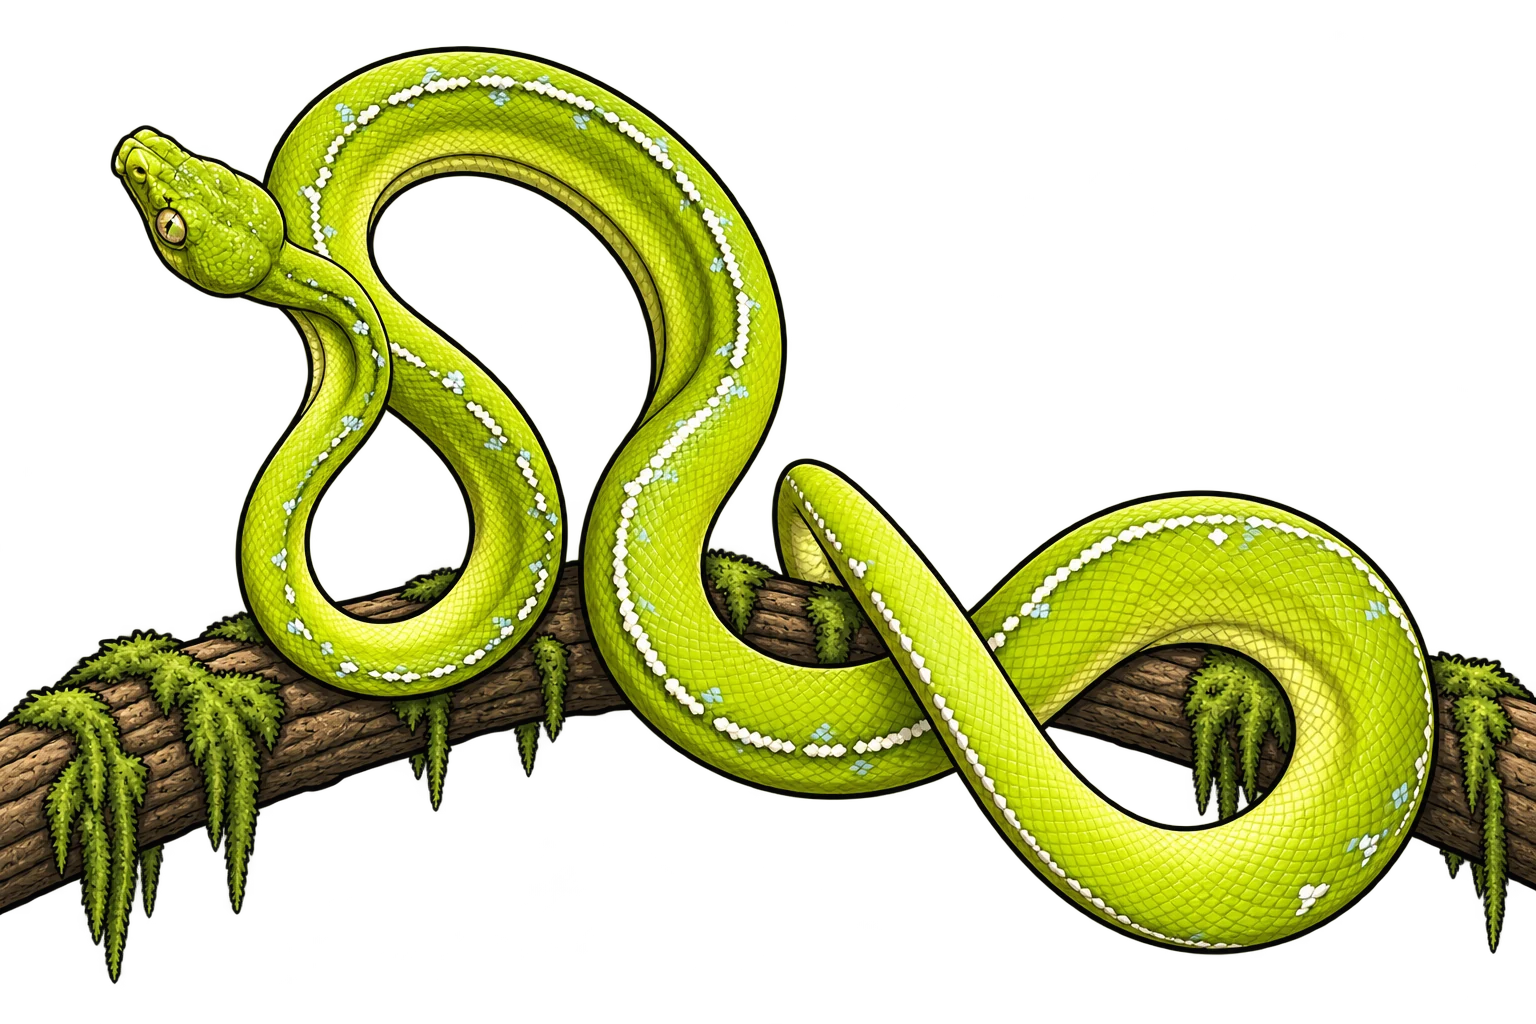
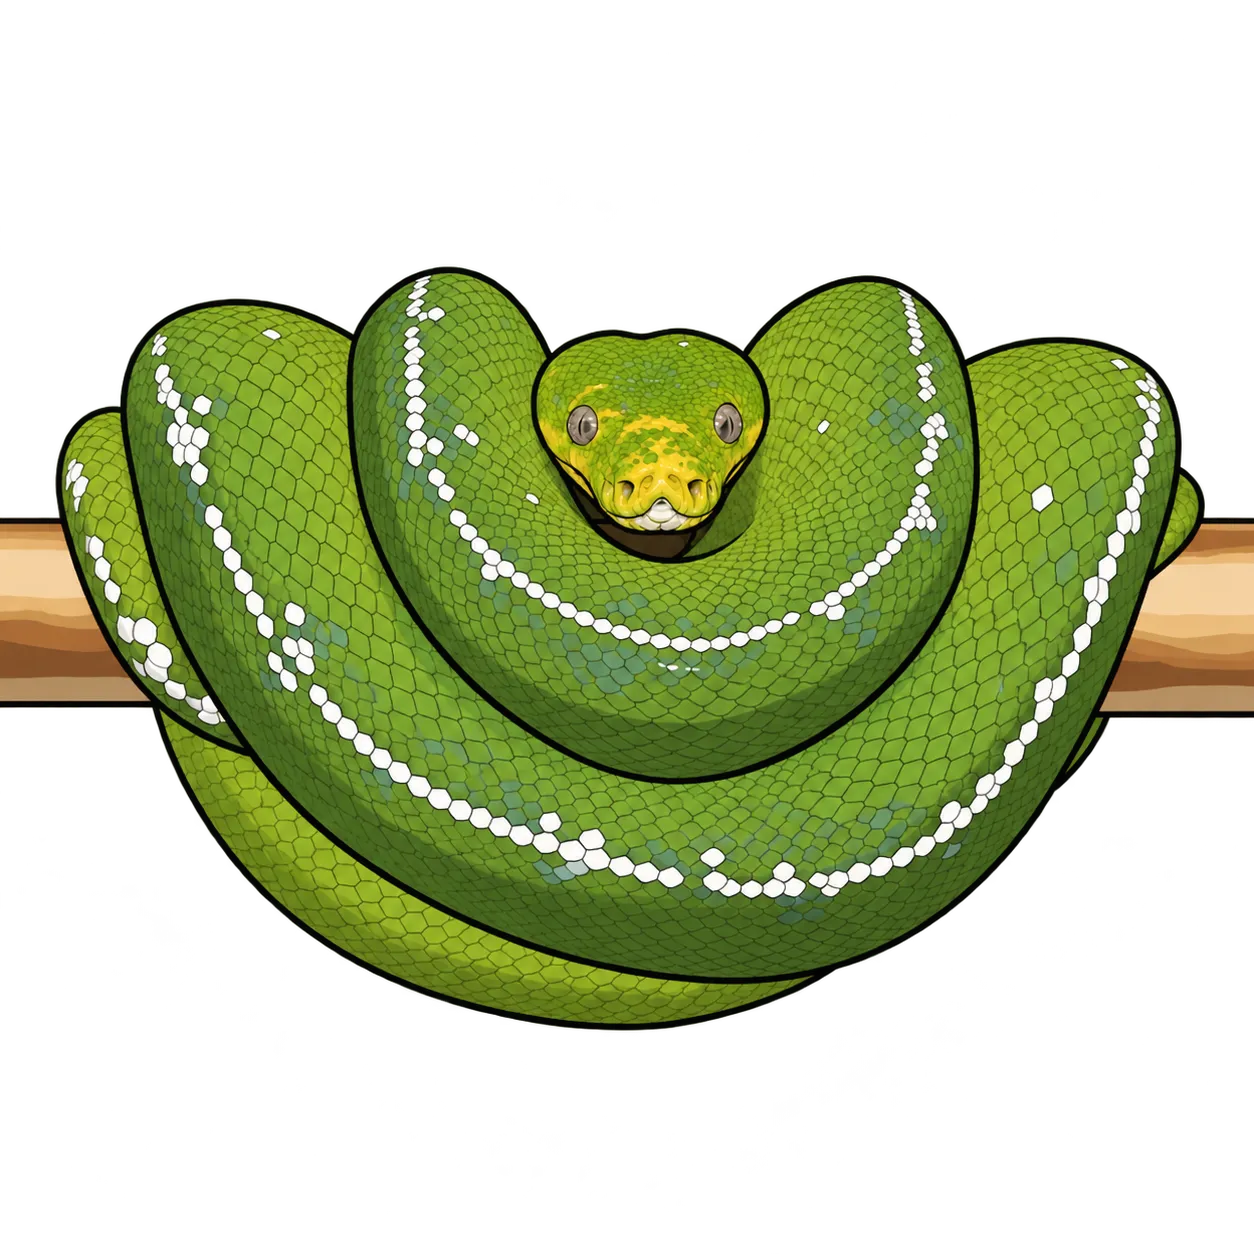
Wire 13 finished Drive sprites into the Keeper registry (09-30 pack + Batanta alt); replace bad-bg Merauke adult

diff --git a/src/lib/chondro-sprite-registry.ts b/src/lib/chondro-sprite-registry.ts
@@ -55,8 +55,14 @@ const localitySprites: Record<string, StageSpriteSet> = {
       Yellow: [variant("/hatchery/snakes/localities/lereh/yellow-neonate.webp")],
     },
     adult: {
-      Red: [variant("/hatchery/snakes/localities/lereh/red-adult.webp")],
-      Yellow: [variant("/hatchery/snakes/localities/lereh/yellow-adult.webp")],
+      Red: [
+        variant("/hatchery/snakes/localities/lereh/red-adult.webp"),
+        variant("/hatchery/snakes/localities/lereh/red-adult-2.webp"),
+      ],
+      Yellow: [
+        variant("/hatchery/snakes/localities/lereh/yellow-adult.webp"),
+        variant("/hatchery/snakes/localities/lereh/yellow-adult-2.webp"),
+      ],
     },
   },
   Wamena: {
@@ -88,6 +94,7 @@ const localitySprites: Record<string, StageSpriteSet> = {
         variant("/hatchery/snakes/localities/cyclops/red-adult-3.webp"),
         variant("/hatchery/snakes/localities/cyclops/red-adult-4.webp"),
         variant("/hatchery/snakes/localities/cyclops/red-adult-5.webp"),
+        variant("/hatchery/snakes/localities/cyclops/red-adult-6.webp"),
       ],
       Yellow: [
         variant("/hatchery/snakes/localities/cyclops/yellow-adult.webp"),
@@ -103,6 +110,7 @@ const localitySprites: Record<string, StageSpriteSet> = {
     adult: {
       Red: [
         variant("/hatchery/snakes/localities/manokwari/red-adult.webp", { maxPhenotypeScore: 84 }),
+        variant("/hatchery/snakes/localities/manokwari/red-adult-2.webp", { maxPhenotypeScore: 84 }),
         variant("/hatchery/snakes/special/manokwari-red-adult-a-plus.webp", { minPhenotypeScore: 85 }),
         variant("/hatchery/snakes/recovered-v7/manokwari/red-adult-a-plus-02.webp", { minPhenotypeScore: 85 }),
       ],
@@ -111,8 +119,10 @@ const localitySprites: Record<string, StageSpriteSet> = {
   },
   Arfak: {
     juvenile: {
-      // Same-subspecies (pulcher) placeholders until dedicated Arfak red-neonate art exists.
       Red: [
+        // Dedicated Arfak art (2026-09-30 pack); pulcher placeholders kept as fallbacks.
+        variant("/hatchery/snakes/localities/arfak/red-neonate.webp"),
+        // Same-subspecies (pulcher) placeholders until dedicated Arfak red-neonate art exists.
         variant("/hatchery/snakes/localities/manokwari/red-neonate.webp"),
         variant("/hatchery/snakes/localities/sorong/red-neonate.webp"),
         variant("/hatchery/snakes/localities/timika/red-neonate.webp"),
@@ -121,8 +131,10 @@ const localitySprites: Record<string, StageSpriteSet> = {
       Yellow: [variant("/hatchery/snakes/localities/manokwari/yellow-neonate.webp")],
     },
     adult: {
-      // Same-subspecies (pulcher) placeholders until dedicated Arfak adult art exists.
       Red: [
+        // Dedicated Arfak art (2026-09-30 pack); pulcher placeholders kept as fallbacks.
+        variant("/hatchery/snakes/localities/arfak/red-adult.webp"),
+        // Same-subspecies (pulcher) placeholders until dedicated Arfak adult art exists.
         variant("/hatchery/snakes/localities/manokwari/red-adult.webp"),
         variant("/hatchery/snakes/localities/sorong/red-adult.webp"),
         variant("/hatchery/snakes/localities/timika/red-adult.webp"),
@@ -193,12 +205,14 @@ const localitySprites: Record<string, StageSpriteSet> = {
       Yellow: [
         variant("/hatchery/snakes/localities/jayapura/yellow-neonate.webp"),
         variant("/hatchery/snakes/localities/jayapura/yellow-neonate-2.webp"),
+        variant("/hatchery/snakes/localities/jayapura/yellow-neonate-3.webp"),
       ],
     },
     adult: {
       Red: [
         variant("/hatchery/snakes/localities/jayapura/red-adult.webp"),
         variant("/hatchery/snakes/localities/jayapura/red-adult-2.webp"),
+        variant("/hatchery/snakes/localities/jayapura/red-adult-3.webp"),
         variant("/hatchery/snakes/localities/jayapura/red-adult-a-plus.webp", { minPhenotypeScore: 85 }),
       ],
       Yellow: [
@@ -240,12 +254,18 @@ const localitySprites: Record<string, StageSpriteSet> = {
   },
   Biak: {
     juvenile: {
-      Red: [variant("/hatchery/snakes/recovered-v6/biak/red-neonate.webp")],
+      Red: [
+        variant("/hatchery/snakes/recovered-v6/biak/red-neonate.webp"),
+        variant("/hatchery/snakes/localities/biak/red-neonate.webp"),
+      ],
       Yellow: [variant("/hatchery/snakes/recovered-v6/biak/yellow-neonate.webp")],
     },
     adult: {
       Red: [variant("/hatchery/snakes/recovered-v6/biak/red-adult.webp")],
-      Yellow: [variant("/hatchery/snakes/recovered-v6/biak/yellow-adult.webp")],
+      Yellow: [
+        variant("/hatchery/snakes/recovered-v6/biak/yellow-adult.webp"),
+        variant("/hatchery/snakes/localities/biak/yellow-adult.webp"),
+      ],
     },
   },
   Numfor: {
@@ -268,20 +288,28 @@ const localitySprites: Record<string, StageSpriteSet> = {
     },
     adultAny: [
       variant("/hatchery/snakes/localities/aru/adult.webp"),
+      variant("/hatchery/snakes/localities/aru/adult-2.webp"),
       variant("/hatchery/snakes/localities/aru/adult-a-plus.webp", { minPhenotypeScore: 85 }),
     ],
   },
   Merauke: {
     juvenile: {
-      Yellow: [variant("/hatchery/snakes/localities/merauke/yellow-neonate.webp")],
+      Yellow: [
+        variant("/hatchery/snakes/localities/merauke/yellow-neonate.webp"),
+        variant("/hatchery/snakes/localities/merauke/yellow-neonate-2.webp"),
+      ],
     },
+    // adult.webp replaced 2026-10-16 with the clean 09-30 pack art (was a painted-background version).
     adultAny: [variant("/hatchery/snakes/localities/merauke/adult.webp")],
   },
   // Raja Ampat island localities (2026-10-16): neonate art only so far.
   // Red juvenile and adult slots intentionally return Sprite pending.
   Batanta: {
     juvenile: {
-      Yellow: [variant("/hatchery/snakes/localities/batanta/yellow-neonate.webp")],
+      Yellow: [
+        variant("/hatchery/snakes/localities/batanta/yellow-neonate.webp"),
+        variant("/hatchery/snakes/localities/batanta/yellow-neonate-2.webp"),
+      ],
     },
   },
   Waigeo: {
